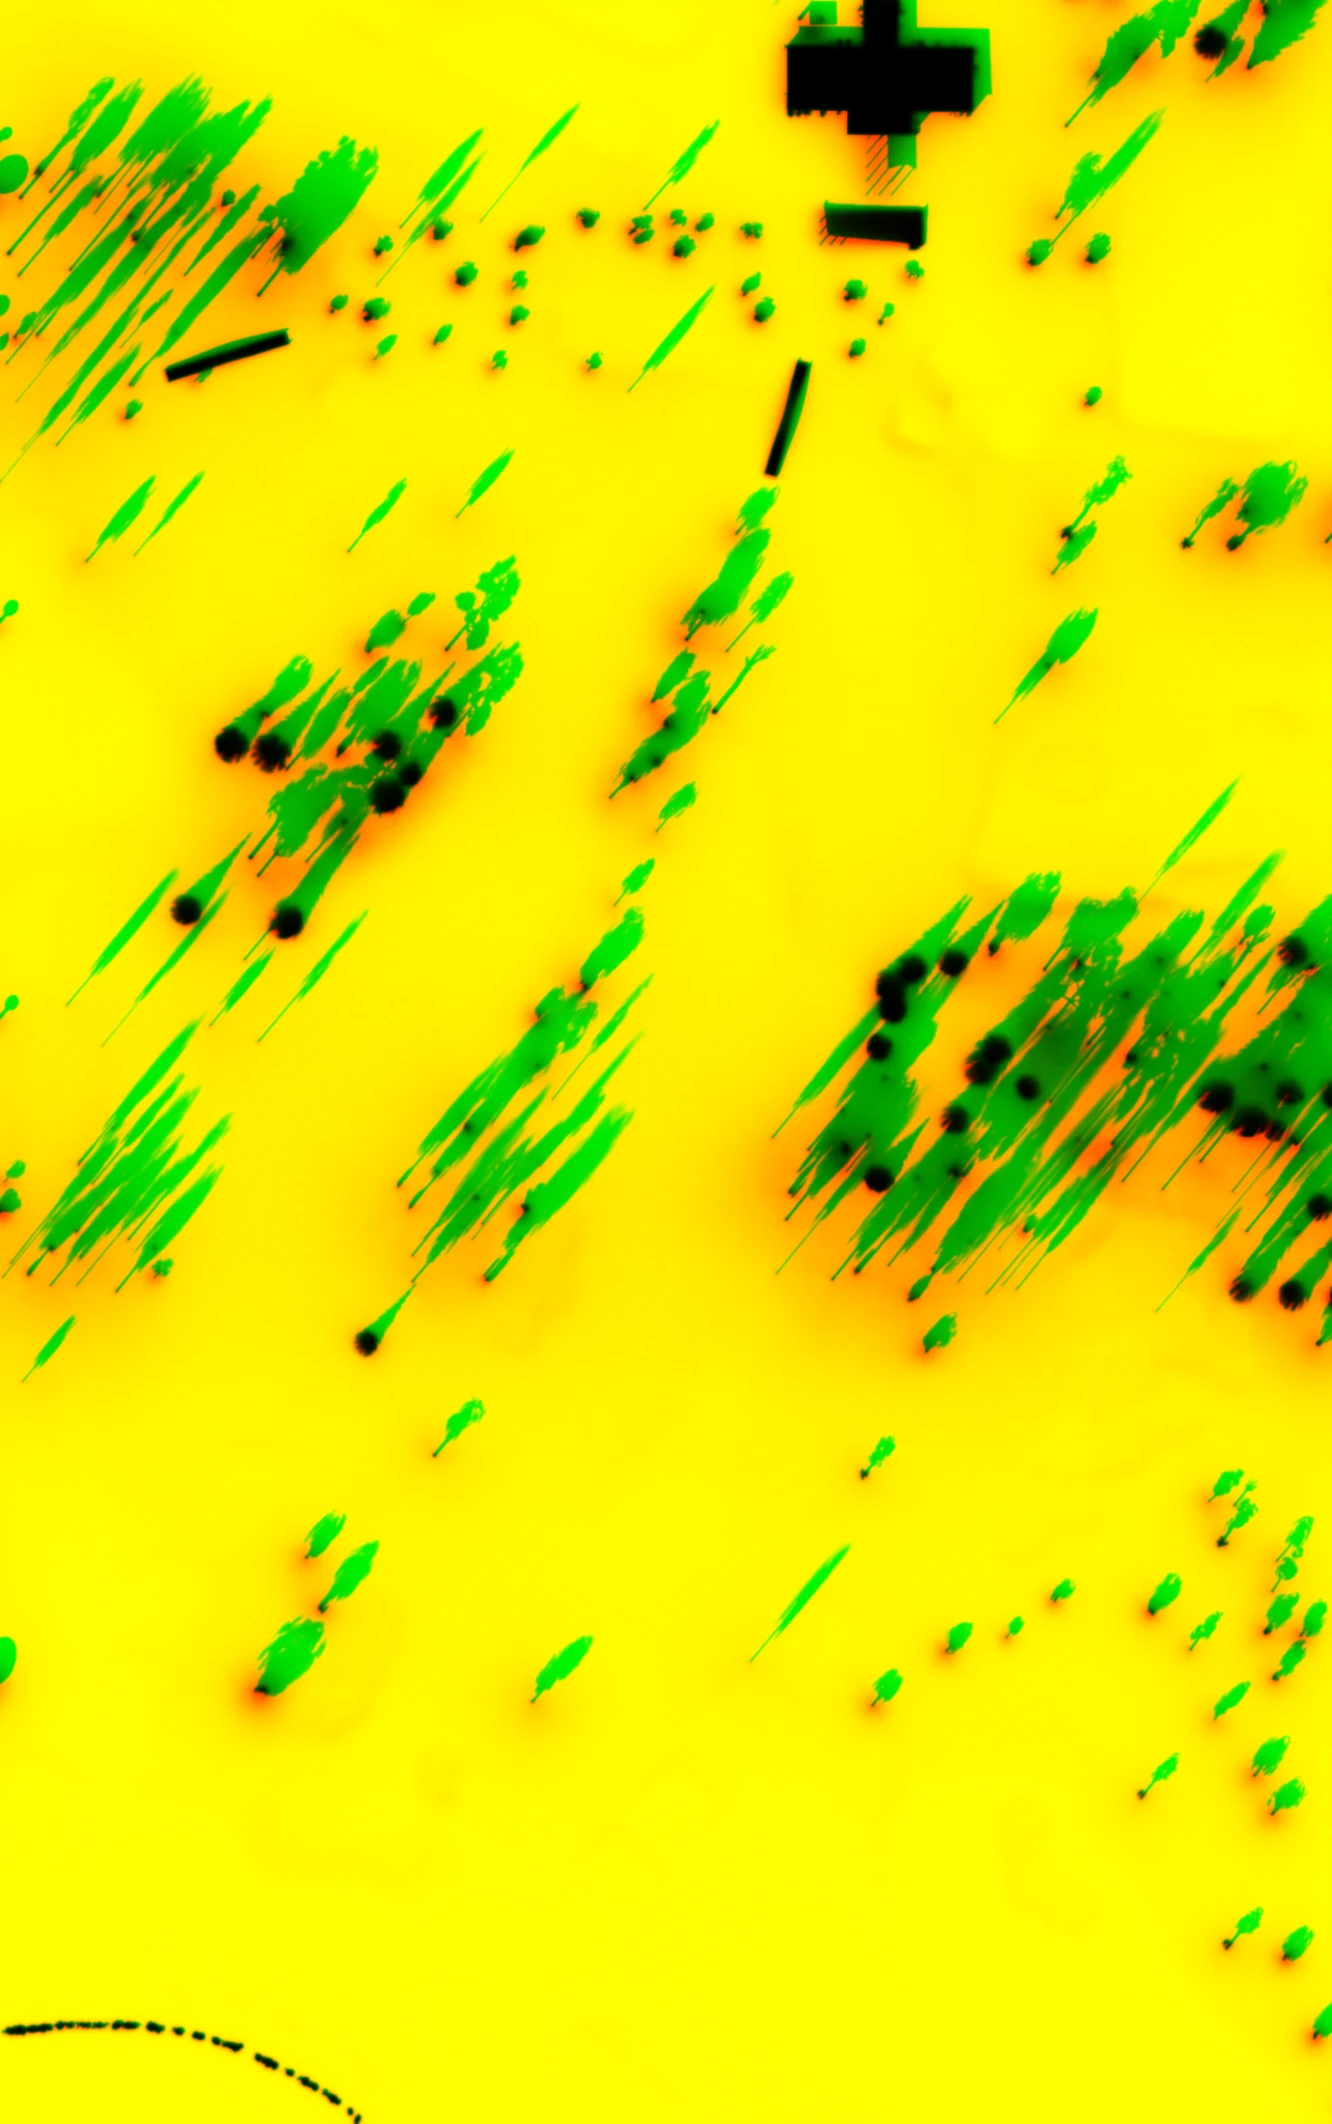
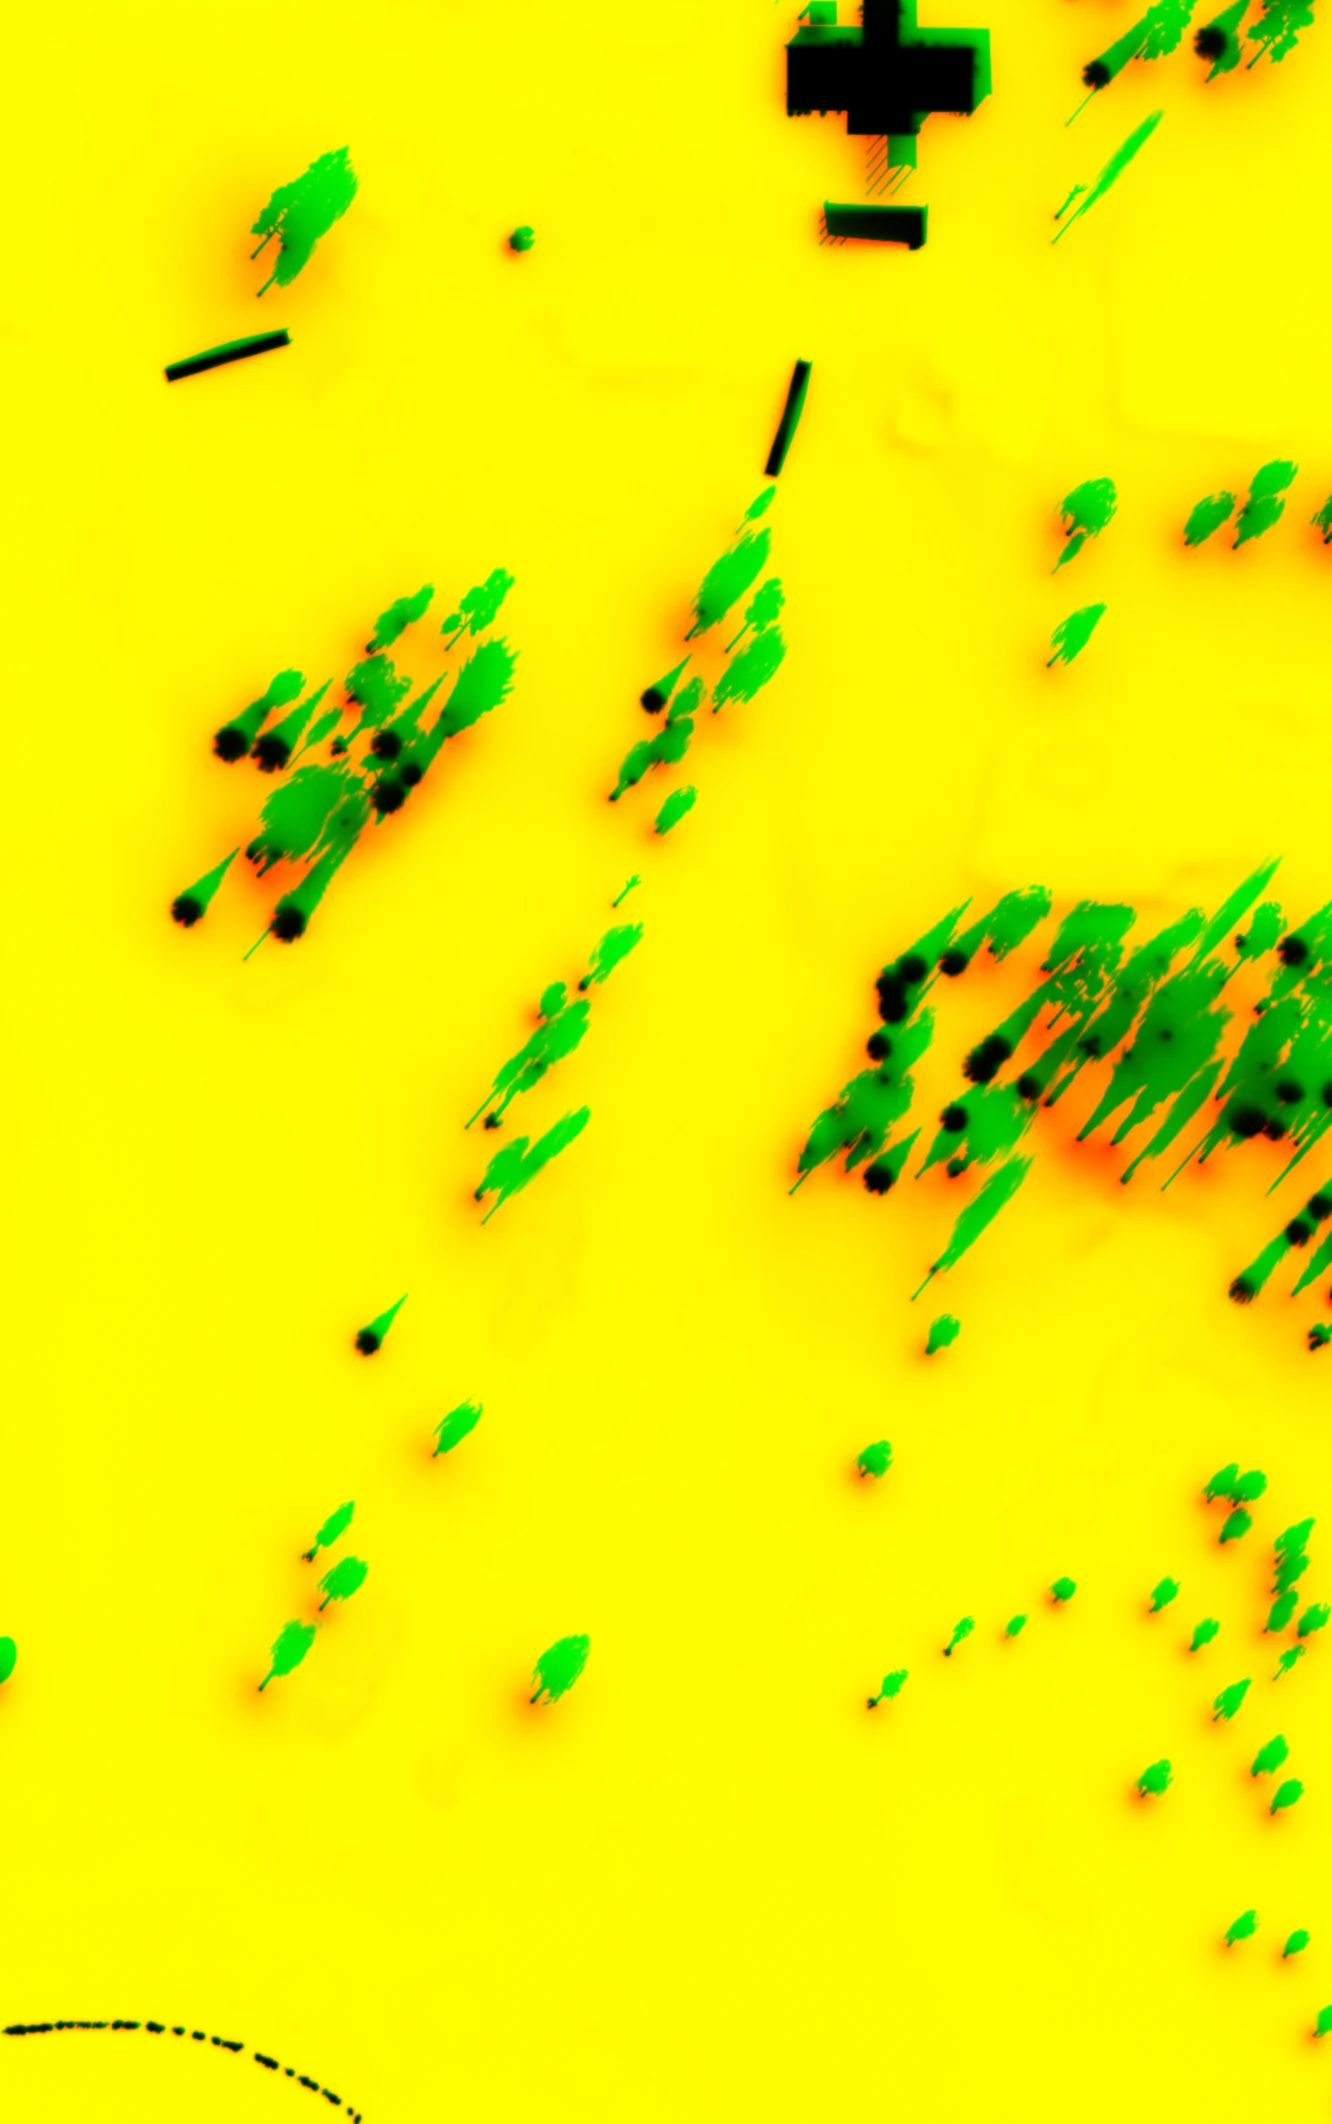
Blender light rebaked with the measured trees: dacotah

diff --git a/index.html b/index.html
@@ -2,7 +2,7 @@
 <html lang="en">
 <head>
 <meta charset="utf-8">
-<meta name="gg-build" content="b7f1f601d3">
+<meta name="gg-build" content="3690f9a4ca">
 <meta name="viewport" content="width=device-width,initial-scale=1,viewport-fit=cover">
 <meta name="apple-mobile-web-app-capable" content="yes">
 <meta name="mobile-web-app-capable" content="yes">
@@ -1082,7 +1082,7 @@ window.THREE={ACESFilmicToneMapping:et,AddEquation:y,AddOperation:J,AdditiveAnim
 <script src="data/COURSE_IMG.js?v=23a6e18ef6"></script>
 <!-- /data files -->
 <!-- game code: tools/datafiles.py (the game is in src/) -->
-<script>(function(){var P=["src/start.js?v=d8ceba60e2","src/clubs-and-surfaces.js?v=175a1b0163","src/hole-construction-from-the.js?v=2abe9d5bd9","src/terrain-height.js?v=a37f63fe87","src/terrain-texture.js?v=a3e96548c6","src/lighting-shared-by-every.js?v=cd5a62476a","src/realism.js?v=aa16e80b0d","src/surroundings.js?v=74bd8e969d","src/built-things.js?v=f98fc21593","src/sky-dome.js?v=1c137437ce","src/webgl-ground.js?v=5d371faab8","src/state.js?v=0620065d3e","src/sound.js?v=e6a171fee3","src/ui-helpers.js?v=101dacc8d1","src/flow.js?v=395fe450d7","src/save-file.js?v=73a0901dda","src/daily-round.js?v=bce71bca1a","src/a-golfer-s-daily.js?v=999de9775c","src/menu.js?v=58010d20df","src/pause-screen-and-feedback.js?v=b5ab620041","src/v107-help-and-faq.js?v=73740ead25","src/course-requests.js?v=1b264636bf","src/career.js?v=8c56e6444d","src/golfers.js?v=ac0e2525f8","src/match-state.js?v=7a407e7535","src/the-rival-s-shot.js?v=aedfc0dd26","src/career-screens.js?v=834dde70da","src/camera.js?v=72b4256890","src/3d-meshes.js?v=031d0e6eb9","src/divots.js?v=5d712295af","src/feel.js?v=cc5f67f75b","src/render.js?v=bbfcd83bef","src/choosing-a-golfer.js?v=59f6ffe37b","src/arm-ik.js?v=a254fdde50","src/real-tree-positions-from.js?v=0488c42a77","src/shader-patches-shared-by.js?v=1d67bace22","src/ground.js?v=95a21c663d","src/sky.js?v=cb305a137b","src/weather.js?v=1fc7d09e82","src/per-hole-scene-content.js?v=8522a6ceff","src/immediate-mode-primitives.js?v=0052447815","src/camera-straight-from-v.js?v=1bad554182","src/post-chain.js?v=d105739265","src/hud.js?v=49f3bf64c8","src/loop.js?v=25bd5af309","src/saved-shots.js?v=57bf3fbf0a","src/input.js?v=768869bb54","src/home-screen.js?v=124d004c02","src/sizing.js?v=67b1e861b4","src/boot.js?v=364c778f34"],t="",i,x;for(i=0;i<P.length;i++){x=new XMLHttpRequest();x.open("GET",P[i],false);x.send();if(x.status!==200&&x.status!==0)throw new Error("game code: could not load "+P[i]);t+=x.responseText;}var s=document.createElement("script");s.text="\n"+t+"//# sourceURL=game.js\n";document.currentScript.after(s);})();</script>
+<script>(function(){var P=["src/start.js?v=d8ceba60e2","src/clubs-and-surfaces.js?v=175a1b0163","src/hole-construction-from-the.js?v=2abe9d5bd9","src/terrain-height.js?v=a37f63fe87","src/terrain-texture.js?v=a3e96548c6","src/lighting-shared-by-every.js?v=cd5a62476a","src/realism.js?v=aa16e80b0d","src/surroundings.js?v=74bd8e969d","src/built-things.js?v=f98fc21593","src/sky-dome.js?v=1c137437ce","src/webgl-ground.js?v=5d371faab8","src/state.js?v=0620065d3e","src/sound.js?v=e6a171fee3","src/ui-helpers.js?v=101dacc8d1","src/flow.js?v=395fe450d7","src/save-file.js?v=73a0901dda","src/daily-round.js?v=bb0fdaa373","src/a-golfer-s-daily.js?v=999de9775c","src/menu.js?v=58010d20df","src/pause-screen-and-feedback.js?v=b5ab620041","src/v107-help-and-faq.js?v=73740ead25","src/course-requests.js?v=1b264636bf","src/career.js?v=8c56e6444d","src/golfers.js?v=ac0e2525f8","src/match-state.js?v=7a407e7535","src/the-rival-s-shot.js?v=aedfc0dd26","src/career-screens.js?v=834dde70da","src/camera.js?v=72b4256890","src/3d-meshes.js?v=031d0e6eb9","src/divots.js?v=5d712295af","src/feel.js?v=cc5f67f75b","src/render.js?v=bbfcd83bef","src/choosing-a-golfer.js?v=59f6ffe37b","src/arm-ik.js?v=a254fdde50","src/real-tree-positions-from.js?v=0488c42a77","src/shader-patches-shared-by.js?v=1d67bace22","src/ground.js?v=95a21c663d","src/sky.js?v=cb305a137b","src/weather.js?v=1fc7d09e82","src/per-hole-scene-content.js?v=8522a6ceff","src/immediate-mode-primitives.js?v=0052447815","src/camera-straight-from-v.js?v=1bad554182","src/post-chain.js?v=d105739265","src/hud.js?v=49f3bf64c8","src/loop.js?v=25bd5af309","src/saved-shots.js?v=57bf3fbf0a","src/input.js?v=768869bb54","src/home-screen.js?v=124d004c02","src/sizing.js?v=67b1e861b4","src/boot.js?v=364c778f34"],t="",i,x;for(i=0;i<P.length;i++){x=new XMLHttpRequest();x.open("GET",P[i],false);x.send();if(x.status!==200&&x.status!==0)throw new Error("game code: could not load "+P[i]);t+=x.responseText;}var s=document.createElement("script");s.text="\n"+t+"//# sourceURL=game.js\n";document.currentScript.after(s);})();</script>
 <!-- /game code -->
 
 <script>/* What's New. Add the newest update at the TOP of UPDATES; its id must be new each time. */

diff --git a/src/daily-round.js b/src/daily-round.js
@@ -79,7 +79,7 @@ function b10K(){const c=b10On()&&typeof B10BAKE!=='undefined'&&B10BAKE.courses?B
   if(c&&typeof tlOn==='function'&&tlOn()!==!!c.mt)return null;   // light baked with other trees than the ones standing (measured vs photo): live shadows instead
   return c&&c.holes?c.holes[G.hi]||null:null;}   // this hole's baked light (b: bounds, png)
 function b10Hole(){return !!b10K();}
-function b10Load(done){const L=['b10/bake.js?v=45','b10/trees.js?v=3'];window.B10LEAF='b10/leaves.webp?v=1';let n=L.length;for(const s of L){const e=document.createElement('script');e.src=s;e.onload=e.onerror=()=>{if(--n===0)done();};document.head.appendChild(e);}}
+function b10Load(done){const L=['b10/bake.js?v=46','b10/trees.js?v=3'];window.B10LEAF='b10/leaves.webp?v=1';let n=L.length;for(const s of L){const e=document.createElement('script');e.src=s;e.onload=e.onerror=()=>{if(--n===0)done();};document.head.appendChild(e);}}
 function b10Trees(P){const dec=(s,T)=>{const b=atob(s),u=new Uint8Array(b.length);for(let i=0;i<b.length;i++)u[i]=b.charCodeAt(i);return new T(u.buffer);};
   const arr=(r,st)=>{const Pp=dec(r.P,Int16Array),N=dec(r.N,Int8Array),C=dec(r.C,Uint8Array),U=r.U?dec(r.U,Int16Array):null,o=new Array(r.n*st);
     for(let i=0;i<r.n;i++){const k=i*st;o[k]=Pp[i*3]/1000;o[k+1]=Pp[i*3+1]/1000;o[k+2]=Pp[i*3+2]/1000;o[k+3]=N[i*3]/127;o[k+4]=N[i*3+1]/127;o[k+5]=N[i*3+2]/127;

diff --git a/sw.js b/sw.js
@@ -1,6 +1,6 @@
 /* Golf Go offline cache. The page is checked online first (so updates show straight away) and falls back to the copy on
    this phone; course data carries a version tag (?v=…) and is kept until it changes; leaderboards always go to the network. */
-const V='857b3b407c',B='b7f1f601d3',CORE='core-'+V,ASSETS='assets';
+const V='ba640df546',B='3690f9a4ca',CORE='core-'+V,ASSETS='assets';
 const CORE_FILES=['./','index.html','manifest.webmanifest','icon-192.png','icon-512.png','apple-touch-icon.png'];
 const DATA=["greens.js?v=db85f90c53", "ground.js?v=4a589b8b73", "trees.js?v=7583546e6a", "char%20ch12.js?v=lg2", "char%20remy.js?v=lg2", "char%20ch01.js?v=lg2", "char_ch08.js?v=lg2", "char_ch42.js?v=lg2", "char_ch23.js?v=lg2", "char%20ch28.js?v=lg2", "char_mx_joe.js?v=lg2", "char_ch17.js?v=lg2", "char_mh_tyger.js?v=m4", "char_mh_jack.js?v=m4", "char_mh_arnie.js?v=m4", "char_mh_phil.js?v=m4", "char_mh_rory.js?v=m4", "char_mh_scotty.js?v=m4", "char_mh_seve.js?v=m4", "char_mh_barry.js?v=m4", "char_mh_hoagan.js?v=m4", "char_mh_payne.js?v=m4"];   // current versioned data files
 const PRE=[];   // publish build: the shared graphics files (a/ga_*.js?v=…), saved at install so even the first launch offline works
